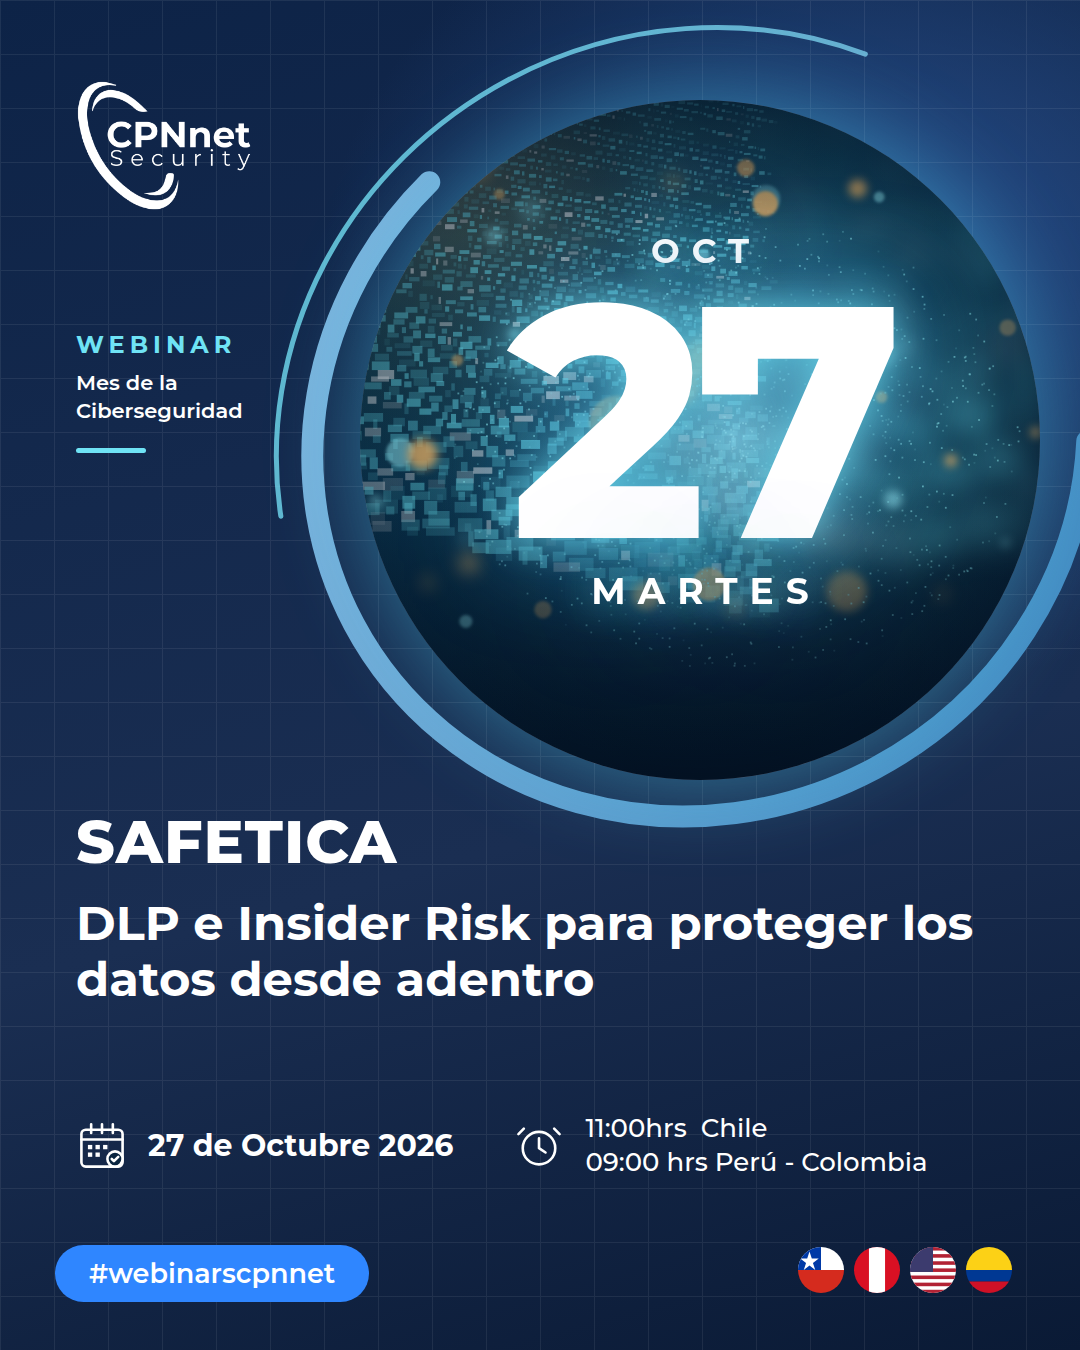
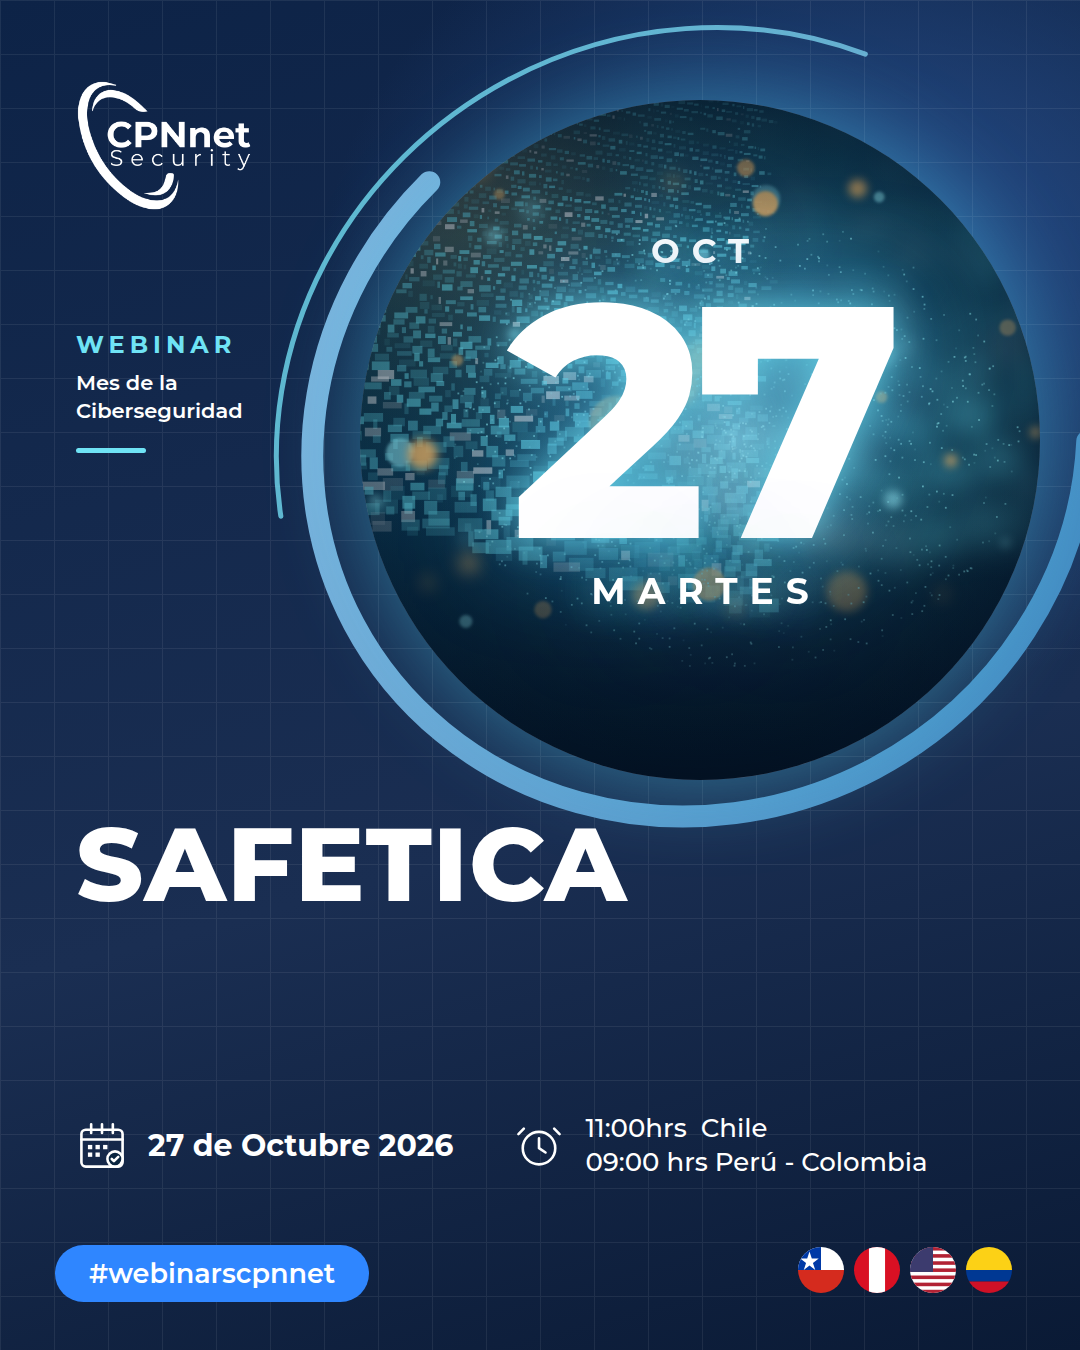
Webinar Safetica: pieza sin título (pendiente del nombre oficial)
Claude-Session: https://claude.ai/code/session_01BhgdAk8jn1gDyTpKoYa1pq

Changed region(s): [[0.0611, 0.5911, 0.9167, 0.7467]]

diff --git a/octubre-ciberseguridad/src/build_partners.py b/octubre-ciberseguridad/src/build_partners.py
@@ -84,7 +84,7 @@ PIECES = [
  dict(n="06", fecha="Vie 23 oct", tipo="reel", nombre="reel-faronics", seed=71, tag="Para partners · Faronics", hook="Reinicia y vuelve a empezar",
       points=["Deep Freeze restaura el equipo a un estado conocido", "Menos tickets en laboratorios, kioscos y salas", "Piloto de entrada: 10 a 20 equipos"], dur="30 s"),
  dict(n="07", fecha="Lun 26 oct", tipo="web", nombre="webinar-safetica", seed=111, flip=True, wordmark="<b>SAFETICA</b>", fecha_txt="27 de Octubre 2026", dia="27", fecha_pub="27 de Octubre 2026",
-      title="DLP e Insider Risk para proteger los datos desde adentro"),
+      title=""),
  dict(n="08", fecha="Mié 28 oct", tipo="sol", nombre="sophos", marca="Sophos", tag="Para partners · Protección · Red y operaciones",
       titulo="Red, acceso y respuesta en una sola arquitectura", hs=54, btop=630,
       bullets=["Firewall, SD-WAN, switching, wireless y ZTNA desde Sophos Central", "Red y endpoint comparten estado para aislar equipos comprometidos", "XDR y MDR para detectar y responder"],

diff --git a/octubre-ciberseguridad/src/build_v2.py b/octubre-ciberseguridad/src/build_v2.py
@@ -80,8 +80,8 @@ def t_webinar(p):
   <div style='font-size:21px;font-weight:600;line-height:1.35;margin-top:10px'>Mes de la<br>Ciberseguridad</div>
   <div style='width:70px;height:5px;border-radius:3px;background:{CYAN};margin-top:22px'></div></div>
 <div class='abs b1' style='left:76px;top:812px;right:76px'>
-  <div style='font-size:60px;line-height:1;font-weight:300;letter-spacing:1px'>{p['wordmark']}</div>
-  <h1 style='font-size:48px;line-height:1.16;font-weight:700;margin-top:24px'>{p['title']}</h1></div>
+  <div style='font-size:{60 if p.get("title") else 104}px;line-height:1;font-weight:300;letter-spacing:1px'>{p['wordmark']}</div>
+  {f"<h1 style='font-size:48px;line-height:1.16;font-weight:700;margin-top:24px'>{p['title']}</h1>" if p.get("title") else ""}</div>
 <div class='info abs' style='left:76px;top:1112px'><div class='d'>{b1.CAL}{p['fecha']}</div><div>{b1.CLK}<span>{b1.HORA}</span></div></div>
 {foot(1245, '#webinarscpnnet')}""", canv=True, seed=p["seed"], fx=.55, fy=.5, flip=p.get("flip", False))
 
